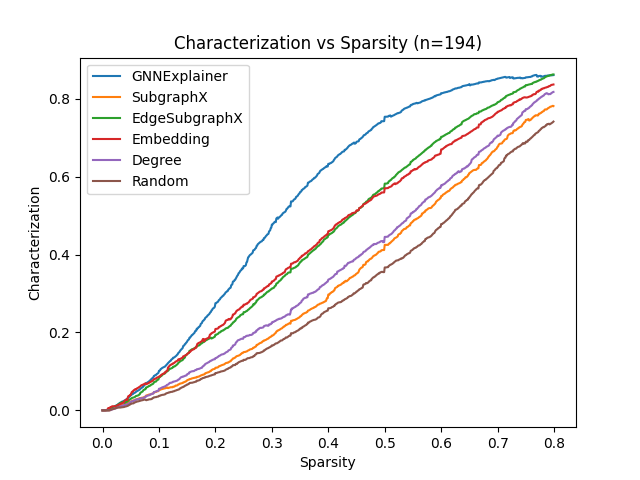
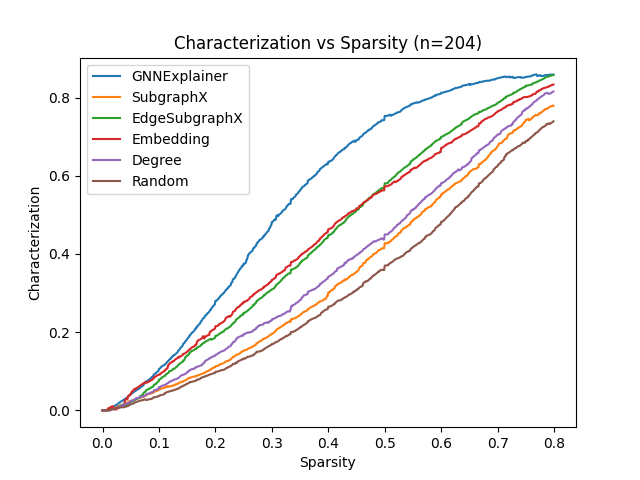
All results

diff --git a/src/experiments/vary_sparsity/run_multiple.py b/src/experiments/vary_sparsity/run_multiple.py
@@ -24,7 +24,7 @@ def get_data():
         model,
         test_data.x,
         test_data.edge_index,
-        test_data.edge_label_index[:, 400:600],
+        test_data.edge_label_index[:, 0:600],
         [
             sample_gnnexplainer,
             sample_subgraphx,
@@ -90,13 +90,13 @@ def plot_data(all_data):
 
 
 if __name__ == "__main__":
-    create_data = True
+    create_data = False
 
     if create_data:
         all_data = get_data()
-        with open("./results/vary_sparsity/data.json", "w") as f:
+        with open("./results/vary_sparsity/data_600.json", "w") as f:
             json.dump(all_data, f)
     else:
-        with open("./results/vary_sparsity/data_400.json", "r") as f:
+        with open("./results/vary_sparsity/data_600.json", "r") as f:
             all_data = json.load(f)
         plot_data(all_data)
